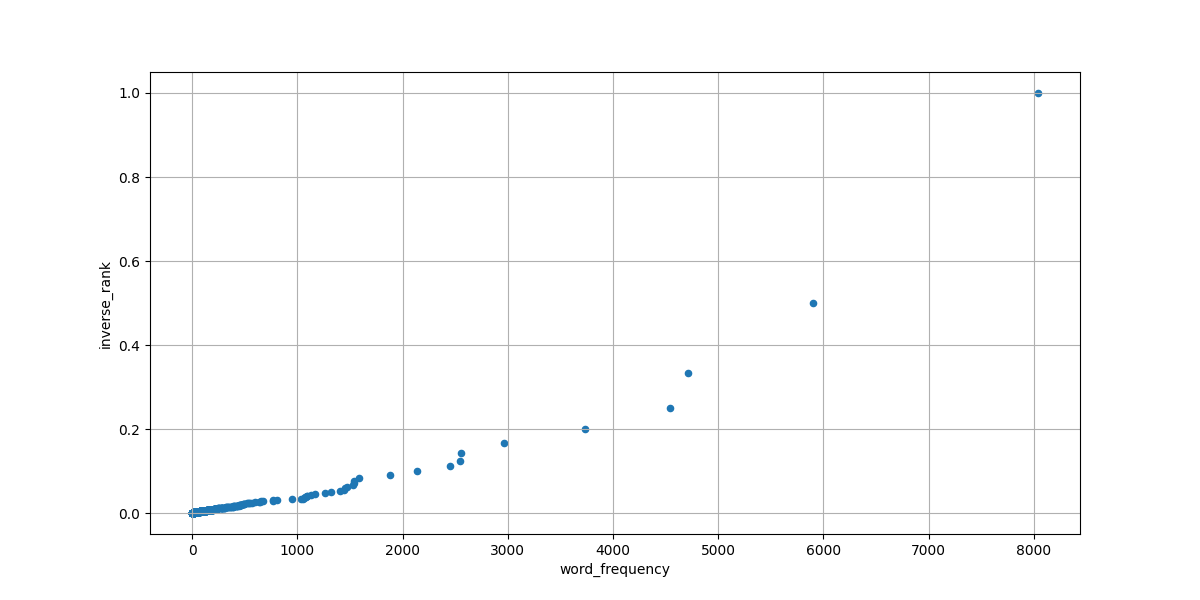
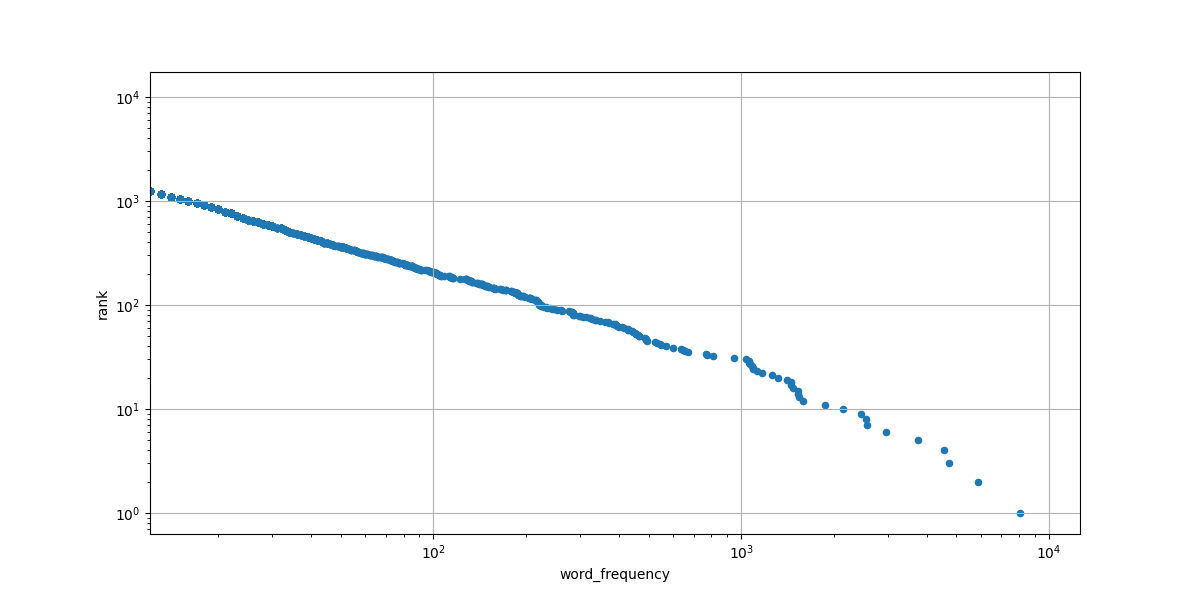
update

diff --git a/bin/plotcounts.py b/bin/plotcounts.py
@@ -15,7 +15,7 @@ def main(args):
                                             method='max')
     df['inverse_rank'] = 1 / df['rank']
     scatplot = df.plot.scatter(x='word_frequency',
-                                y='rank',
+                                y='rank',loglog=True,
                                 figsize=[12, 6],
                                 grid=True,
                                 xlim=args.xlim)
